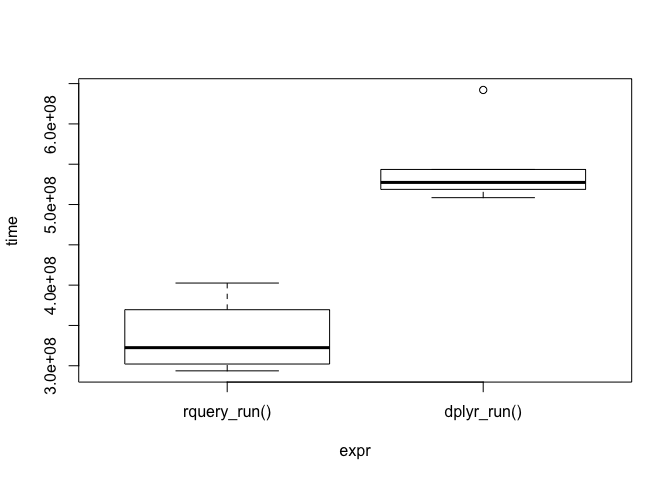
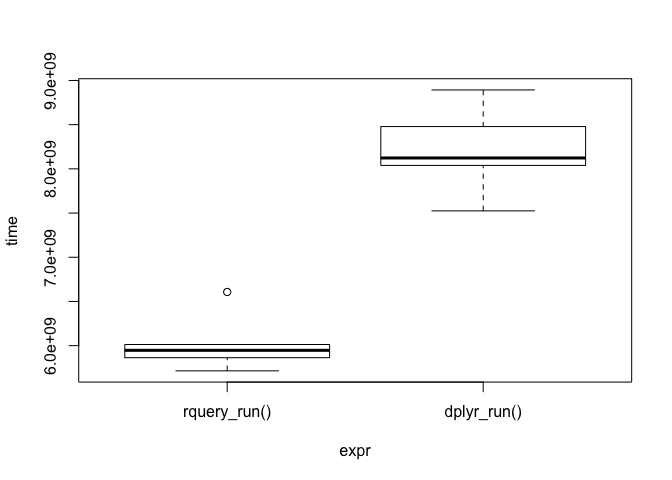
initial timings

diff --git a/docs/index.html b/docs/index.html
@@ -286,7 +286,8 @@ dq &lt;-<span class="st"> </span>d <span class="op">%.&gt;%</span>
  ) tsql_0004
 ) tsql_0005 ORDER BY `subjectID`</code></pre>
 <p>The query is large, but due to its regular structure it should be very amenable to query optimization.</p>
-<p>A feature to notice is: the query was automatically restricted to just columns actually needed from the source table to complete the calculation. This can greatly decrease data volume and greatly speed up query performance. This optimization is possible because the <code>rquery</code> representation is an intelligible tree of nodes, so we can interrogate the tree for facts about the query. For example:</p>
+<p>A feature to notice is: the query was automatically restricted to just columns actually needed from the source table to complete the calculation. This has the possibilty of decreasing data volume and greatly speeding up query performance. Our <a href="https://github.com/WinVector/rquery/blob/master/extras/PerfTest.md">initial experiments</a> show <code>rquery</code> to be 25% faster than <code>dplyr</code> on a synthetic problem.</p>
+<p>The above optimization is possible because the <code>rquery</code> representation is an intelligible tree of nodes, so we can interrogate the tree for facts about the query. For example:</p>
 <div class="sourceCode"><pre class="sourceCode r"><code class="sourceCode r"><span class="kw"><a href="reference/column_names.html">column_names</a></span>(dq)</code></pre></div>
 <pre><code>## [1] "diagnosis"   "probability" "subjectID"</code></pre>
 <div class="sourceCode"><pre class="sourceCode r"><code class="sourceCode r"><span class="kw"><a href="reference/tables_used.html">tables_used</a></span>(dq)</code></pre></div>

diff --git a/docs/reference/if_else_block.html b/docs/reference/if_else_block.html
@@ -211,8 +211,8 @@ is a reserved column name for this procedure.</p>
           ) a
        ) b"</span>
  <span class='kw pkg'>DBI</span><span class='kw ns'>::</span><span class='fu'><a href='http://www.rdocumentation.org/packages/DBI/topics/dbGetQuery'>dbGetQuery</a></span>(<span class='no'>my_db</span>, <span class='no'>q</span>)</div><div class='output co'>#&gt;                    r1                   r2
-#&gt; 1 8440220817503186756 -6204304383156065461
-#&gt; 2 -517486310745026965 -5241597178013144675</div><div class='input'>
+#&gt; 1 7181851763677110788 -1806241135942871898
+#&gt; 2 9030726077263088407 -8580271682834478690</div><div class='input'>
 <span class='kw pkg'>DBI</span><span class='kw ns'>::</span><span class='fu'><a href='http://www.rdocumentation.org/packages/DBI/topics/dbDisconnect'>dbDisconnect</a></span>(<span class='no'>my_db</span>)</div></pre>
   </div>
   <div class="col-md-3 hidden-xs hidden-sm" id="sidebar">

diff --git a/extras/PerfTest.md b/extras/PerfTest.md
@@ -1,4 +1,4 @@
-rquery
+PerfTest
 ================
 2017-12-16
 
@@ -13,8 +13,8 @@ library("rquery")
 my_db <- sparklyr::spark_connect(version='2.2.0', 
                                  master = "local")
 
-nSubj <- 100
-nIrrelCol <- 5
+nSubj <- 100000
+nIrrelCol <- 1000
 dL <- data.frame(subjectID = sort(rep(seq_len(nSubj),2)),
                  surveyCategory = c(
                    'withdrawal behavior',
@@ -33,30 +33,13 @@ d <- dbi_copy_to(my_db, 'd',
 dL <- NULL
 
 dT <- dplyr::tbl(my_db, d$table_name)
-
-d %.>%
-  to_sql(., source_limit = 6) %.>%
-  DBI::dbGetQuery(my_db, .) %.>%
-  str(.)
-```
-
-    ## 'data.frame':    6 obs. of  8 variables:
-    ##  $ subjectID            : int  1 1 2 2 3 3
-    ##  $ surveyCategory       : chr  "withdrawal behavior" "positive re-framing" "withdrawal behavior" "positive re-framing" ...
-    ##  $ assessmentTotal      : int  9 6 8 6 7 8
-    ##  $ irrelevantCol_0000001: chr  "l" "p" "v" "h" ...
-    ##  $ irrelevantCol_0000002: chr  "m" "n" "z" "a" ...
-    ##  $ irrelevantCol_0000003: chr  "k" "u" "a" "j" ...
-    ##  $ irrelevantCol_0000004: chr  "c" "r" "g" "x" ...
-    ##  $ irrelevantCol_0000005: chr  "b" "i" "y" "x" ...
-
-``` r
-scale <- 0.237
 ```
 
 Define and demonstrate pipelines:
 
 ``` r
+scale <- 0.237
+
 rquery_run <- function() {
   dq <- d %.>%
     extend_nse(.,
@@ -102,12 +85,12 @@ head(rquery_run())
 ```
 
     ##   subjectID           diagnosis probability
-    ## 1         1 withdrawal behavior   0.6706221
-    ## 2         2 withdrawal behavior   0.6163301
-    ## 3         3 positive re-framing   0.5589742
-    ## 4         4 positive re-framing   0.7658456
-    ## 5         5 withdrawal behavior   0.5000000
-    ## 6         6 withdrawal behavior   0.5000000
+    ## 1         1 positive re-framing   0.6163301
+    ## 2         2 withdrawal behavior   0.7658456
+    ## 3         3 positive re-framing   0.6706221
+    ## 4         4 withdrawal behavior   0.7658456
+    ## 5         5 positive re-framing   0.7658456
+    ## 6         6 positive re-framing   0.6706221
 
 ``` r
 head(dplyr_run())
@@ -116,12 +99,12 @@ head(dplyr_run())
     ## # A tibble: 6 x 3
     ##   subjectID diagnosis           probability
     ##       <int> <chr>                     <dbl>
-    ## 1         1 withdrawal behavior       0.671
-    ## 2         2 withdrawal behavior       0.616
-    ## 3         3 positive re-framing       0.559
-    ## 4         4 positive re-framing       0.766
-    ## 5         5 withdrawal behavior       0.500
-    ## 6         6 withdrawal behavior       0.500
+    ## 1         1 positive re-framing       0.616
+    ## 2         2 withdrawal behavior       0.766
+    ## 3         3 positive re-framing       0.671
+    ## 4         4 withdrawal behavior       0.766
+    ## 5         5 positive re-framing       0.766
+    ## 6         6 positive re-framing       0.671
 
 Get timings:
 
@@ -137,10 +120,10 @@ Present results:
 print(timings)
 ```
 
-    ## Unit: milliseconds
+    ## Unit: seconds
     ##          expr      min       lq     mean   median       uq      max neval
-    ##  rquery_run() 293.6785 302.1365 338.0736 322.4487 369.5122 402.5923     5
-    ##   dplyr_run() 508.5111 518.7965 548.0737 527.4243 543.5125 642.1240     5
+    ##  rquery_run() 5.714978 5.863546 6.029122 5.946924 6.012969 6.607193     5
+    ##   dplyr_run() 7.524662 8.038975 8.211565 8.123074 8.478510 8.892605     5
 
 ``` r
 plot(timings)
@@ -148,7 +131,7 @@ plot(timings)
 
 ![](PerfTest_files/figure-markdown_github/present-1.png)
 
-TODO: confirm this effect is not a query cache.
+TODO: confirm this effect is not a query cache effect.
 
 ``` r
 sparklyr::spark_disconnect(my_db)

diff --git a/README.md b/README.md
@@ -197,7 +197,9 @@ cat(to_sql(dq, source_limit = 1000))
 
 The query is large, but due to its regular structure it should be very amenable to query optimization.
 
-A feature to notice is: the query was automatically restricted to just columns actually needed from the source table to complete the calculation. This can greatly decrease data volume and greatly speed up query performance. This optimization is possible because the `rquery` representation is an intelligible tree of nodes, so we can interrogate the tree for facts about the query. For example:
+A feature to notice is: the query was automatically restricted to just columns actually needed from the source table to complete the calculation. This has the possibilty of decreasing data volume and greatly speeding up query performance. Our [initial experiments](https://github.com/WinVector/rquery/blob/master/extras/PerfTest.md) show `rquery` to be 25% faster than `dplyr` on a synthetic problem.
+
+The above optimization is possible because the `rquery` representation is an intelligible tree of nodes, so we can interrogate the tree for facts about the query. For example:
 
 ``` r
 column_names(dq)
